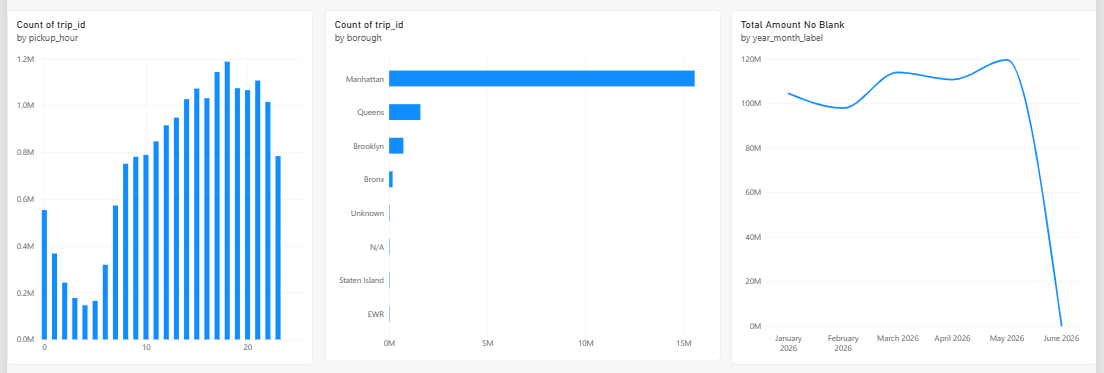
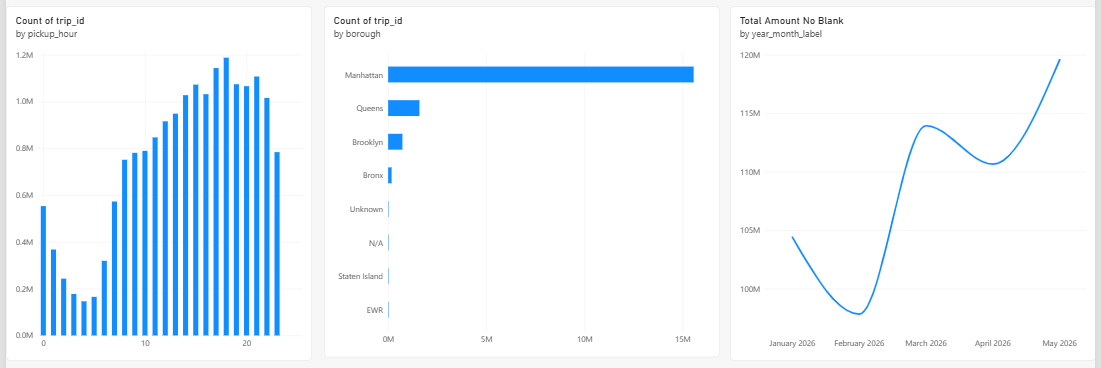
Update dashboard screenshot

diff --git a/README.md b/README.md
@@ -15,10 +15,6 @@ dashboard built on the Gold tables (Phase 6); GitHub Actions CI verified
 green for `pytest` + `dbt test` (Phase 7).
 See [ROADMAP.md](ROADMAP.md) for the full phase-by-phase plan.
 
-## Dashboard
-
-![Power BI dashboard](Power%20BI%20dashboards/Dashboards.png)
-
 ## Structure
 
 - `ingestion/` — scripts to download TLC data and upload to S3
@@ -31,6 +27,10 @@ See [ROADMAP.md](ROADMAP.md) for the full phase-by-phase plan.
 - `Power BI dashboards/` — the Power BI report (DirectQuery against the
   Gold tables), saved in PBIP text-based format for source control
 - `docker-compose.yaml` — local Airflow (webserver, scheduler, Postgres, Redis)
+
+## Power BI Dashboard
+
+![Power BI dashboard](Power%20BI%20dashboards/Dashboards.png)
 
 ## Setup
 
